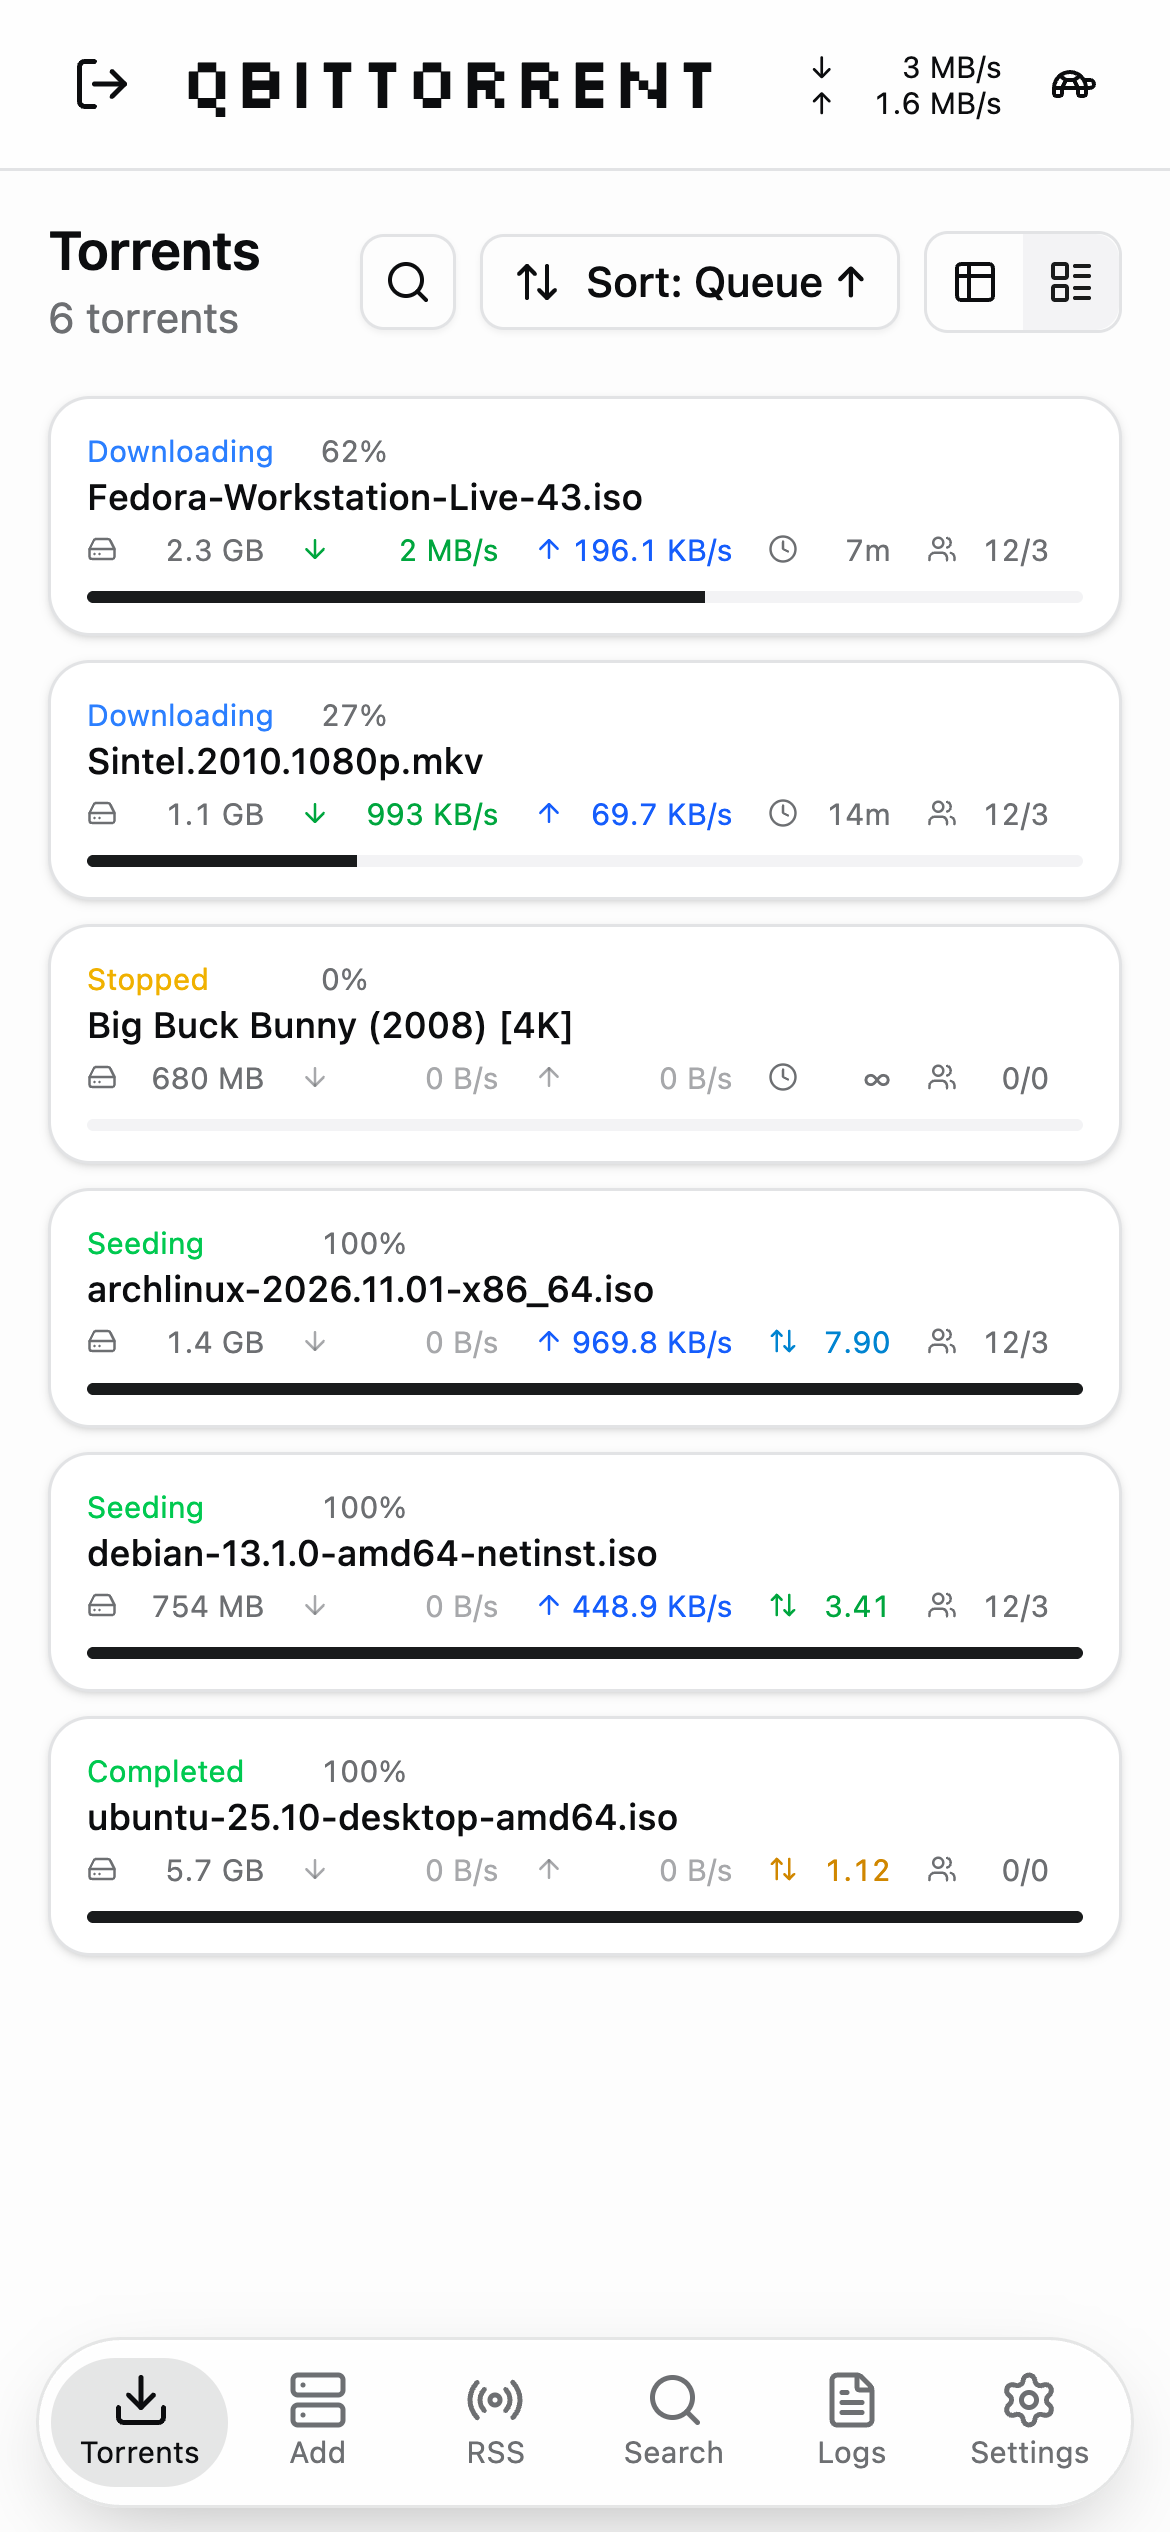
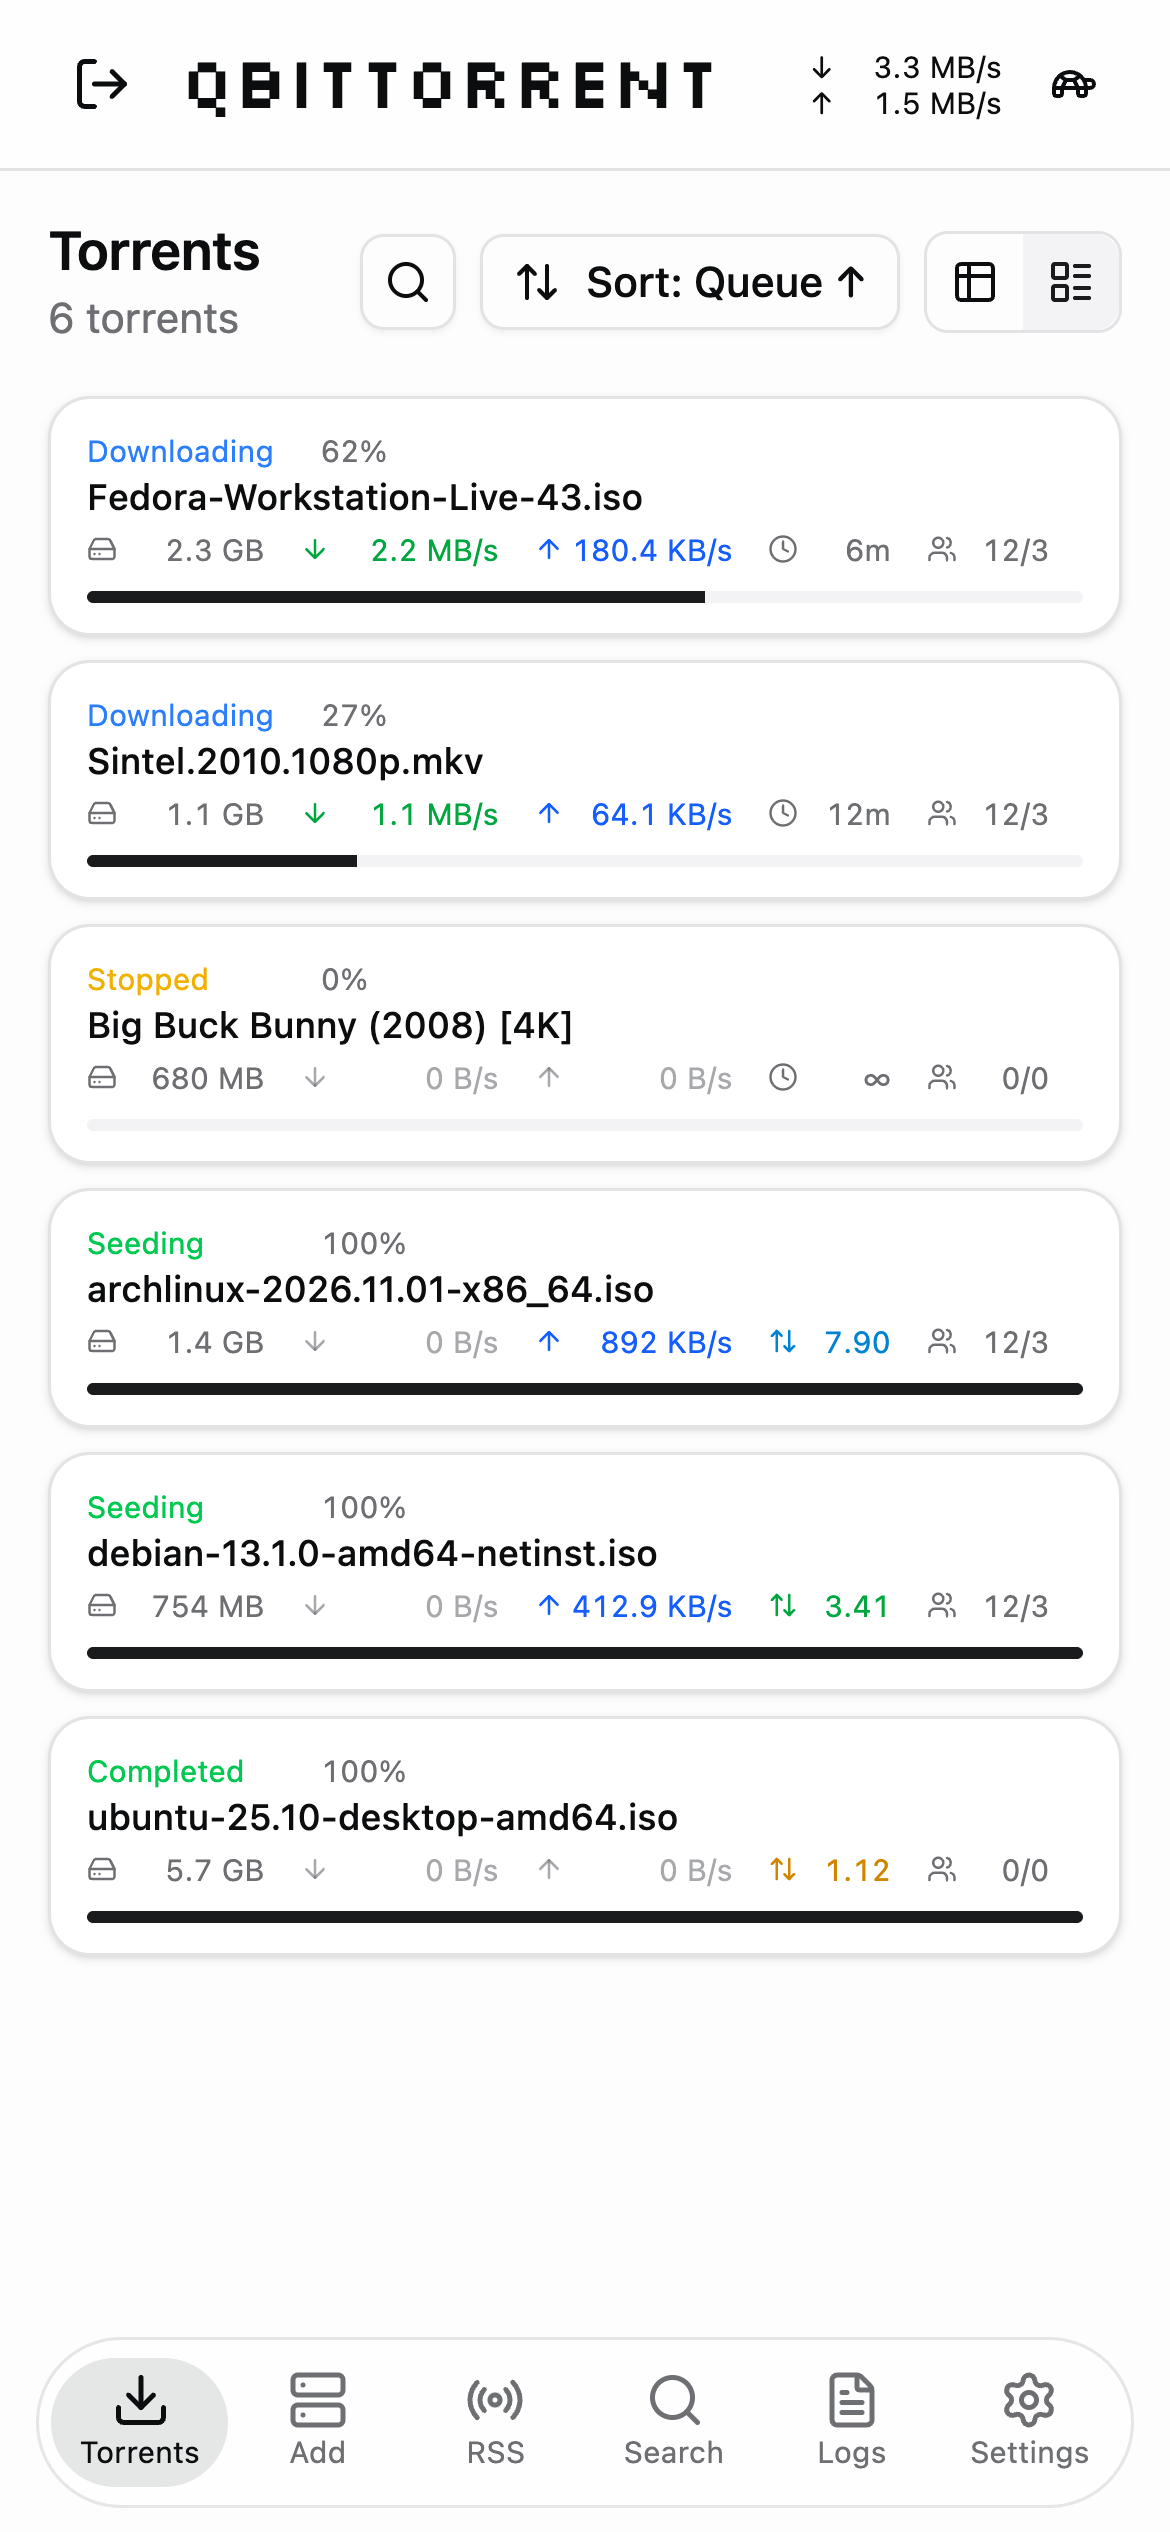
qbminimal 1.4.10
- Phones: the tab bar drops its shadow and keeps only its border and lit
  top edge.
- README: a screenshot from Safari on an iPhone (iOS Simulator, demo
  data), and the other screenshots retaken.

Changed region(s): [[0.0923, 0.9672, 0.8923, 0.9984], [0.3077, 0.312, 0.3692, 0.3432], [0.5231, 0.312, 0.5538, 0.3432]]

diff --git a/src/components/Layout.tsx b/src/components/Layout.tsx
@@ -134,7 +134,7 @@ export function Layout({ page, onNavigate, children }: LayoutProps) {
       <nav
         ref={navRef}
         aria-label={t('Pages')}
-        className="glass fixed inset-x-[max(0.75rem,env(safe-area-inset-left))] bottom-[max(var(--nav-gap),env(safe-area-inset-bottom))] z-30 rounded-full md:hidden"
+        className="glass glass-flat fixed inset-x-[max(0.75rem,env(safe-area-inset-left))] bottom-[max(var(--nav-gap),env(safe-area-inset-bottom))] z-30 rounded-full md:hidden"
       >
         <div className="flex justify-around px-1 py-1.5">
           {PAGES.map(({ id, label, icon: Icon }) => (

diff --git a/src/index.css b/src/index.css
@@ -220,6 +220,14 @@
     0 10px 30px -12px rgb(0 0 0 / 0.7);
 }
 
+/* The tab bar keeps only the lit top edge, without a shadow below it. */
+.glass.glass-flat {
+  box-shadow: inset 0 1px 0 rgb(255 255 255 / 0.45);
+}
+.dark .glass.glass-flat {
+  box-shadow: inset 0 1px 0 rgb(255 255 255 / 0.09);
+}
+
 /* Reduce Transparency, or more contrast, in the system settings: solid bars. */
 @media (prefers-reduced-transparency: reduce), (prefers-contrast: more) {
   .glass,

diff --git a/README.md b/README.md
@@ -27,6 +27,12 @@ On a phone, as cards and as a table:
   <img src="docs/screenshots/mobile-table.png" alt="The torrent list as a table on a phone" width="260">
 </p>
 
+In Safari on an iPhone, where the list runs on behind the address bar:
+
+<p>
+  <img src="docs/screenshots/iphone.png" alt="The torrent list as cards in Safari on an iPhone, continuing behind Safari's address bar under the floating tab bar" width="260">
+</p>
+
 The screenshots come from the demo (`npm run demo`), so the torrents are made up.
 
 ## Features
